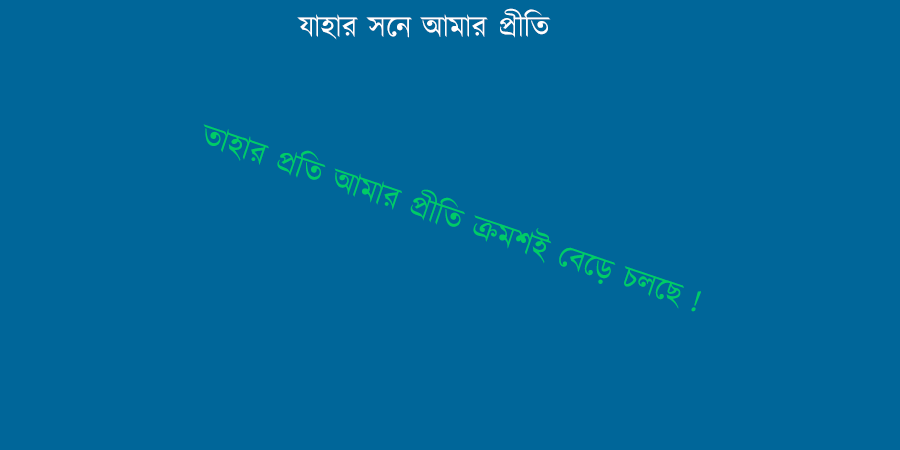
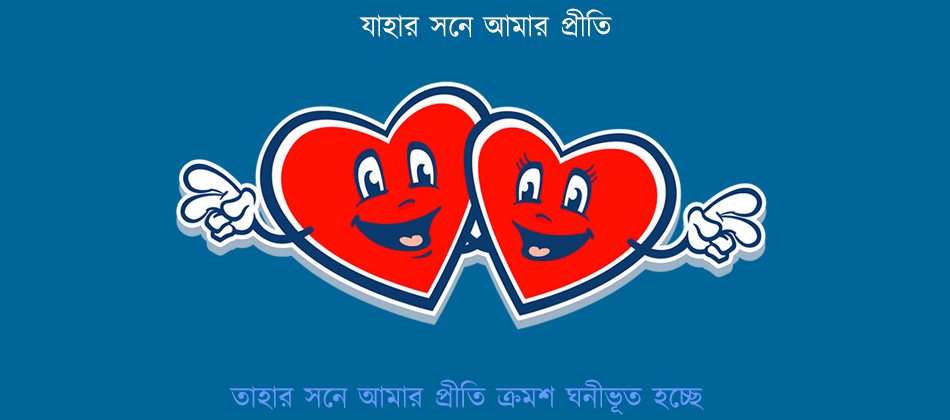
updating source

Changed region(s): [[0.1867, 0.1857, 0.8089, 0.8048], [0.2489, 0.8976, 0.7467, 0.9905], [0.3111, 0.0, 0.6533, 0.0929]]

diff --git a/imagemaker.php b/imagemaker.php
@@ -67,10 +67,10 @@
             $u1 = imagecreatefrompng("http://workspace.nazuka.net/sendback.php?link=".$a);
             $u2 = imagecreatefrompng("http://workspace.nazuka.net/sendback.php?link=".$b);
 
-            if(imagecopymerge($originalImage, $u1, 45, 70, 0, 0, imagesx($u1), imagesy($u1), 100) && imagecopymerge($originalImage,$u2, 715, 260,0, 0, imagesx($u2), imagesy($u2), 100)){
+            if(imagecopymerge($originalImage, $u1, 40, 65, 0, 0, imagesx($u1), imagesy($u1), 100) && imagecopymerge($originalImage,$u2, 777, 235,0, 0, imagesx($u2), imagesy($u2), 100)){
                 $n1 = imagecreatefrompng("http://workspace.nazuka.net/sendback.php?name=".$_SESSION['uf1']."&pos=1");
                 $n2 = imagecreatefrompng("http://workspace.nazuka.net/sendback.php?name=".$_SESSION['uf2']."&pos=2");
-                if(imagecopymerge($originalImage, $n1, 45, 20, 0, 0, imagesx($n1), imagesy($n1), 100) && imagecopymerge($originalImage,$n2, 465, 390,0, 0, imagesx($n2), imagesy($n2), 100)){
+                if(imagecopymerge($originalImage, $n1, 40, 25, 0, 0, imagesx($n1), imagesy($n1), 100) && imagecopymerge($originalImage,$n2, 497, 360, 0, 0, imagesx($n2), imagesy($n2), 100)){
                     // random key generator
                     $rand = randomKeyGenerator(5);
                     // image name to be stored in
